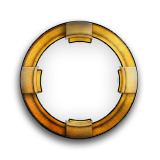
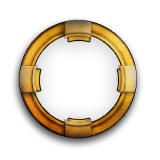
renaming a "return" > "enter". adding document for keyboarhook mappings. changing the style a little. adding a backslash in place for the paragraph. adding another binding for enter. updating screenshots to reflect the changes made.

Changed region(s): [[0.25, 0.25, 0.875, 0.9062], [0.0938, 0.0938, 0.7188, 0.6875], [0.1875, 0.6875, 0.25, 0.7188]]

diff --git a/ControllerOSK/Views/MainWindow.xaml b/ControllerOSK/Views/MainWindow.xaml
@@ -60,7 +60,10 @@
                     </Border>
                     <controls:ImageLabel Grid.Row="1" Margin="461,0,77,32"
                         ImageSource="/ControllerOSK;component/Resources/Xelu/Xbox One/XboxOne_Dpad_Down.png"
-                        Text="Return" />
+                        Text="Enter" />
+                    <controls:ImageLabel Margin="595,0,-57,38"
+                        ImageSource="/ControllerOSK;component/Resources/Xelu/Xbox One/XboxOne_Menu.png"
+                        Text="Enter" Grid.Row="1" />
                     <controls:ImageLabel Grid.Row="1" Margin="0,0,543,32"
                         ImageSource="/ControllerOSK;component/Resources/Xelu/Xbox One/XboxOne_LT.png"
                         Text="Uppercase" />
@@ -69,11 +72,11 @@
                           Text="Symbols" />
                     <controls:ImageLabel Grid.Row="1" Margin="1,32,552,0"
                         ImageSource="/ControllerOSK;component/Resources/Xelu/Xbox One/XboxOne_LB.png"
-                        Text="Backspace" />
+                        Text="Delete" />
                     <controls:ImageLabel Margin="161,32,392,0" Grid.Row="1"
                         ImageSource="/ControllerOSK;component/Resources/Xelu/Xbox One/XboxOne_RB.png"
                         Text="Space"/>
-                    <controls:ImageLabel Margin="595,32,0,0" Grid.Row="1"
+                    <controls:ImageLabel Margin="595,37,0,0" Grid.Row="1"
                         ImageSource="/ControllerOSK;component/Resources/Xelu/Xbox One/XboxOne_Windows.png"
                         Text="Show/Hide"/>
                     <controls:ImageLabel Grid.Row="1" Margin="306,0,232,32"

diff --git a/ControllerOSK/Input/JoystickInput.cs b/ControllerOSK/Input/JoystickInput.cs
@@ -130,7 +130,7 @@ namespace ControllerOSK.Input {
 			if (LastActiveState.DPad.Left				== ButtonState.Pressed) { MoveLeft	= true; hasChanged = true; } // todo analogue move
 			if (LastActiveState.DPad.Right				== ButtonState.Pressed) { MoveRight	= true; hasChanged = true; } // todo analogue move
 			if (LastActiveState.Buttons.Back			== ButtonState.Pressed) { OpenClose	= true; hasChanged = true; }
-			if (LastActiveState.DPad.Down				== ButtonState.Pressed) { Return	= true; hasChanged = true; }
+			if (LastActiveState.DPad.Down				== ButtonState.Pressed) { Enter	= true; hasChanged = true; }
 			
 			const float triggerThreshhold = 0.01f;
 			if (LastActiveState.Triggers.Left  > triggerThreshhold) { ChangeCase	= true; hasChanged = true; }
@@ -147,7 +147,7 @@ namespace ControllerOSK.Input {
 			if (_lastState.MoveLeft		== MoveLeft		) MoveLeft		= false; else if(LastActiveState.DPad.Left				== ButtonState.Released) _lastState.MoveLeft	= false;
 			if (_lastState.MoveRight	== MoveRight	) MoveRight		= false; else if(LastActiveState.DPad.Right				== ButtonState.Released) _lastState.MoveRight	= false;
 		//	if (_lastState.OpenClose	== OpenClose	) OpenClose		= false; else if(LastActiveState.Buttons.Back			== ButtonState.Released) _lastState.OpenClose	= false;
-			if (_lastState.Return		== Return		) Return		= false; else if(LastActiveState.DPad.Down				== ButtonState.Released) _lastState.Return		= false;
+			if (_lastState.Return		== Enter		) Enter		= false; else if(LastActiveState.DPad.Down				== ButtonState.Released) _lastState.Return		= false;
 			if (_lastState.CharPos.Y	== CharPos.Y	) _charPos.Y	= 0;
 			if (_lastState.CharPos.X	== CharPos.X	) _charPos.X	= 0;
 			//	if (_lastState.ChangeCase   == ChangeCase	) ChangeCase	= false;
@@ -187,7 +187,7 @@ namespace ControllerOSK.Input {
 			MoveLeft = false;
 			MoveRight = false;
 			Delete = false;
-			Return = false;
+			Enter = false;
 			Space = false;
 			OpenClose = false;
 		}
@@ -213,7 +213,7 @@ namespace ControllerOSK.Input {
 		public bool MoveRight { get; set; }
 		public bool Delete { get; set; }
 		public bool Space { get; set; }
-		public bool Return { get; set; }
+		public bool Enter { get; set; }
 		public bool OpenClose { get; set; }
 	}
 }

diff --git a/ControllerOSK/Input/GlobalKeyboardInput.cs b/ControllerOSK/Input/GlobalKeyboardInput.cs
@@ -62,7 +62,7 @@ namespace ControllerOSK.Input {
 			if (key == Key.Z)		{MoveLeft		= true;	hasChangd = true;}
 			if (key == Key.X)		{MoveRight		= true;	hasChangd = true;}
 			if (key == Key.F12)		{OpenClose		= true;	hasChangd = true;}
-			if (key == Key.Enter)	{Return			= true;	hasChangd = true;}
+			if (key == Key.Enter)	{Enter			= true;	hasChangd = true;}
 
 			_charPos = new Vector2();
 			if (new[]{
@@ -151,7 +151,7 @@ namespace ControllerOSK.Input {
 		public bool MoveRight { get; set; }
 		public bool Delete { get; set; }
 		public bool Space { get; set; }
-		public bool Return { get; set; }
+		public bool Enter { get; set; }
 		public bool OpenClose { get; set; }
 		public bool Show { get; set; }
 	}

diff --git a/ControllerOSK/Controls/DisplayInputControl.xaml.cs b/ControllerOSK/Controls/DisplayInputControl.xaml.cs
@@ -101,7 +101,7 @@ namespace ControllerOSK.Controls {
 		static DisplayInputControl(){
 			BaseChars = QwertySequence;
 			BaseCharsUpper = BaseChars.ToUpper();
-			SymbolChars = "%€|&" + "+-*/" + "=[]§" + "^<>~" + "'!?." + "°{}¥" + "\":;@" + "_#,-" + "$()£";
+			SymbolChars = "%€|&" + "+-*/" + "=[]\\" + "^<>~" + "'!?." + "°{}¥" + "\":;@" + "_#,-" + "$()£";
 		}
 
 		private const string QwertySequence = "1qew" + "2ryt" + "3uoi" + "4ads" + "5fhg" + "6jlk" + "7zcx" + "8vnb" + "9m0p";

diff --git a/ControllerOSK/Input/InputState.cs b/ControllerOSK/Input/InputState.cs
@@ -20,7 +20,7 @@ namespace ControllerOSK.Input{
 			MoveRight = input.MoveRight;
 			Delete = input.Delete;
 			Space = input.Space;
-			Return = input.Return;
+			Return = input.Enter;
 			OpenClose = input.OpenClose;
 		}
 

diff --git a/ControllerOSK/Input/IInput.cs b/ControllerOSK/Input/IInput.cs
@@ -16,7 +16,7 @@
 		bool MoveRight { get; set; }
 		bool Delete { get; set; }
 		bool Space { get; set; }
-		bool Return { get; set; }
+		bool Enter { get; set; }
 
 		bool OpenClose { get; set; }
 	}

diff --git a/ControllerOSK/Views/MainWindow.SendKeys.cs b/ControllerOSK/Views/MainWindow.SendKeys.cs
@@ -53,7 +53,7 @@ namespace ControllerOSK.Views {
 			if (input.Space)
 				InsertText(" ");
 
-			if (input.Return) {
+			if (input.Enter) {
 				InsertText(" ", false);
 				SendKey("{ENTER}");
 			}

diff --git a/README.md b/README.md
@@ -2,5 +2,5 @@
 
 A keyboard input solution for joystick users
 
-![Screenshot](screenshot.png)
-![Screenshot2](screenshot-wow.png)
+![Screenshot](screenshot.jpg)
+![Screenshot2](screenshot-wow.jpg)
